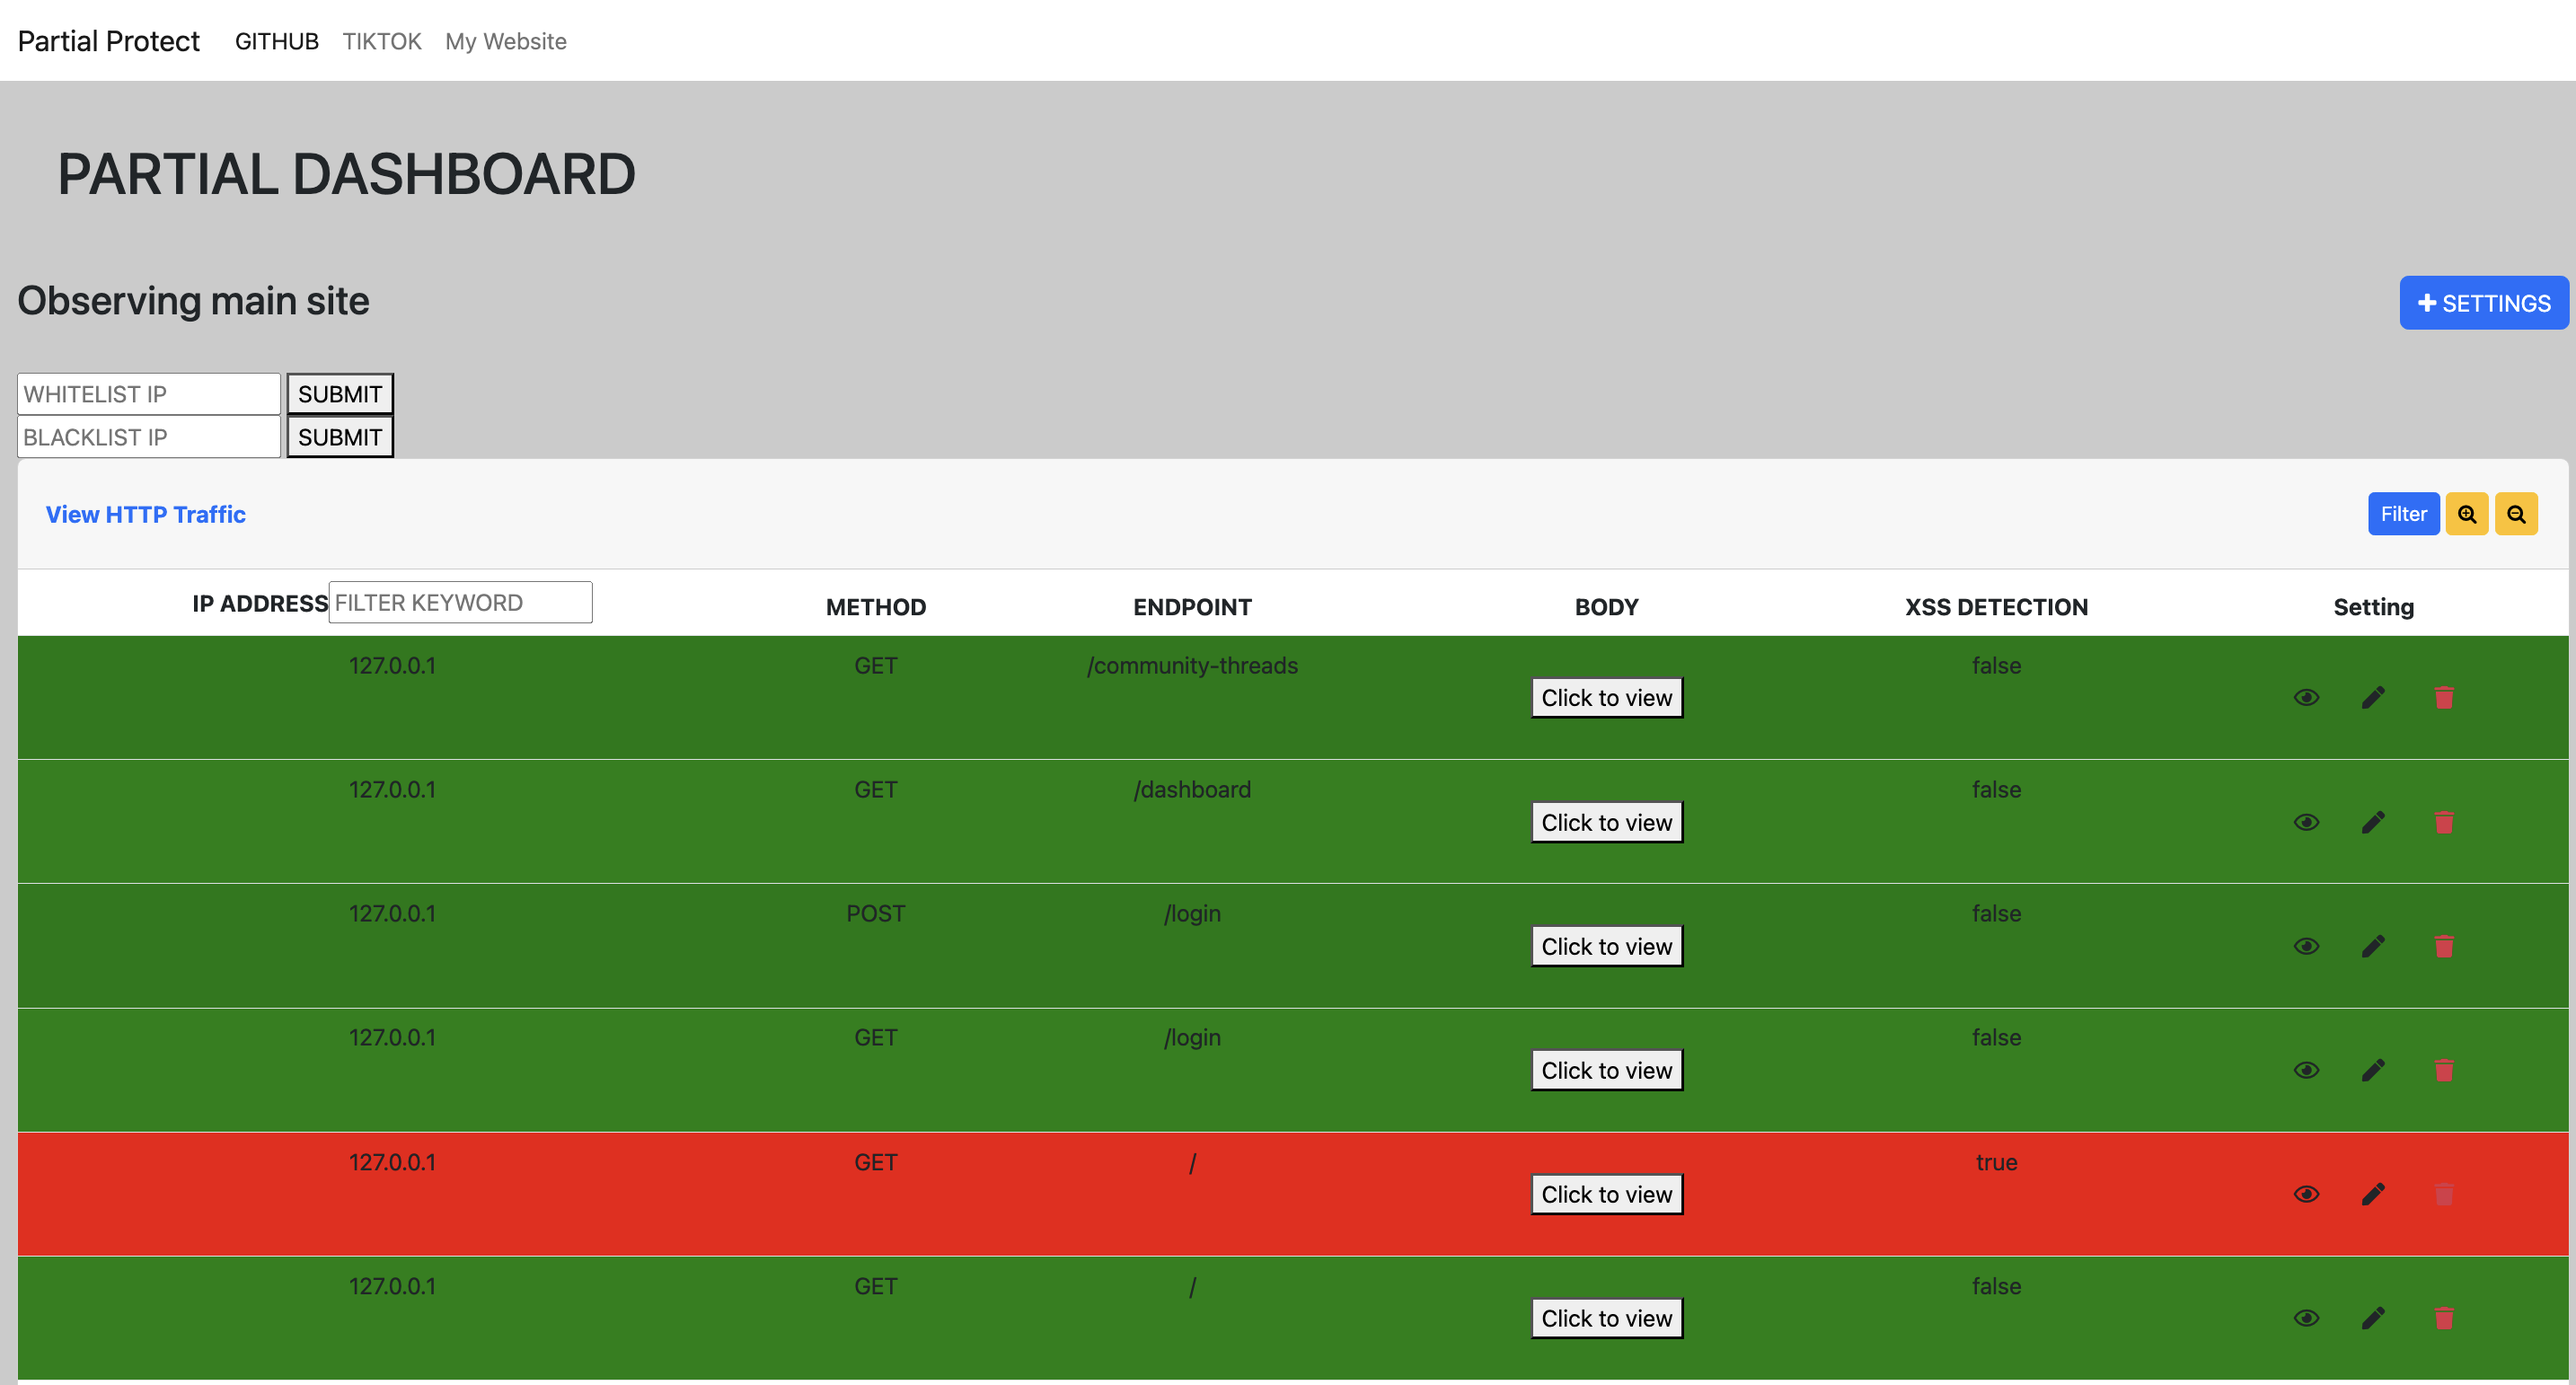
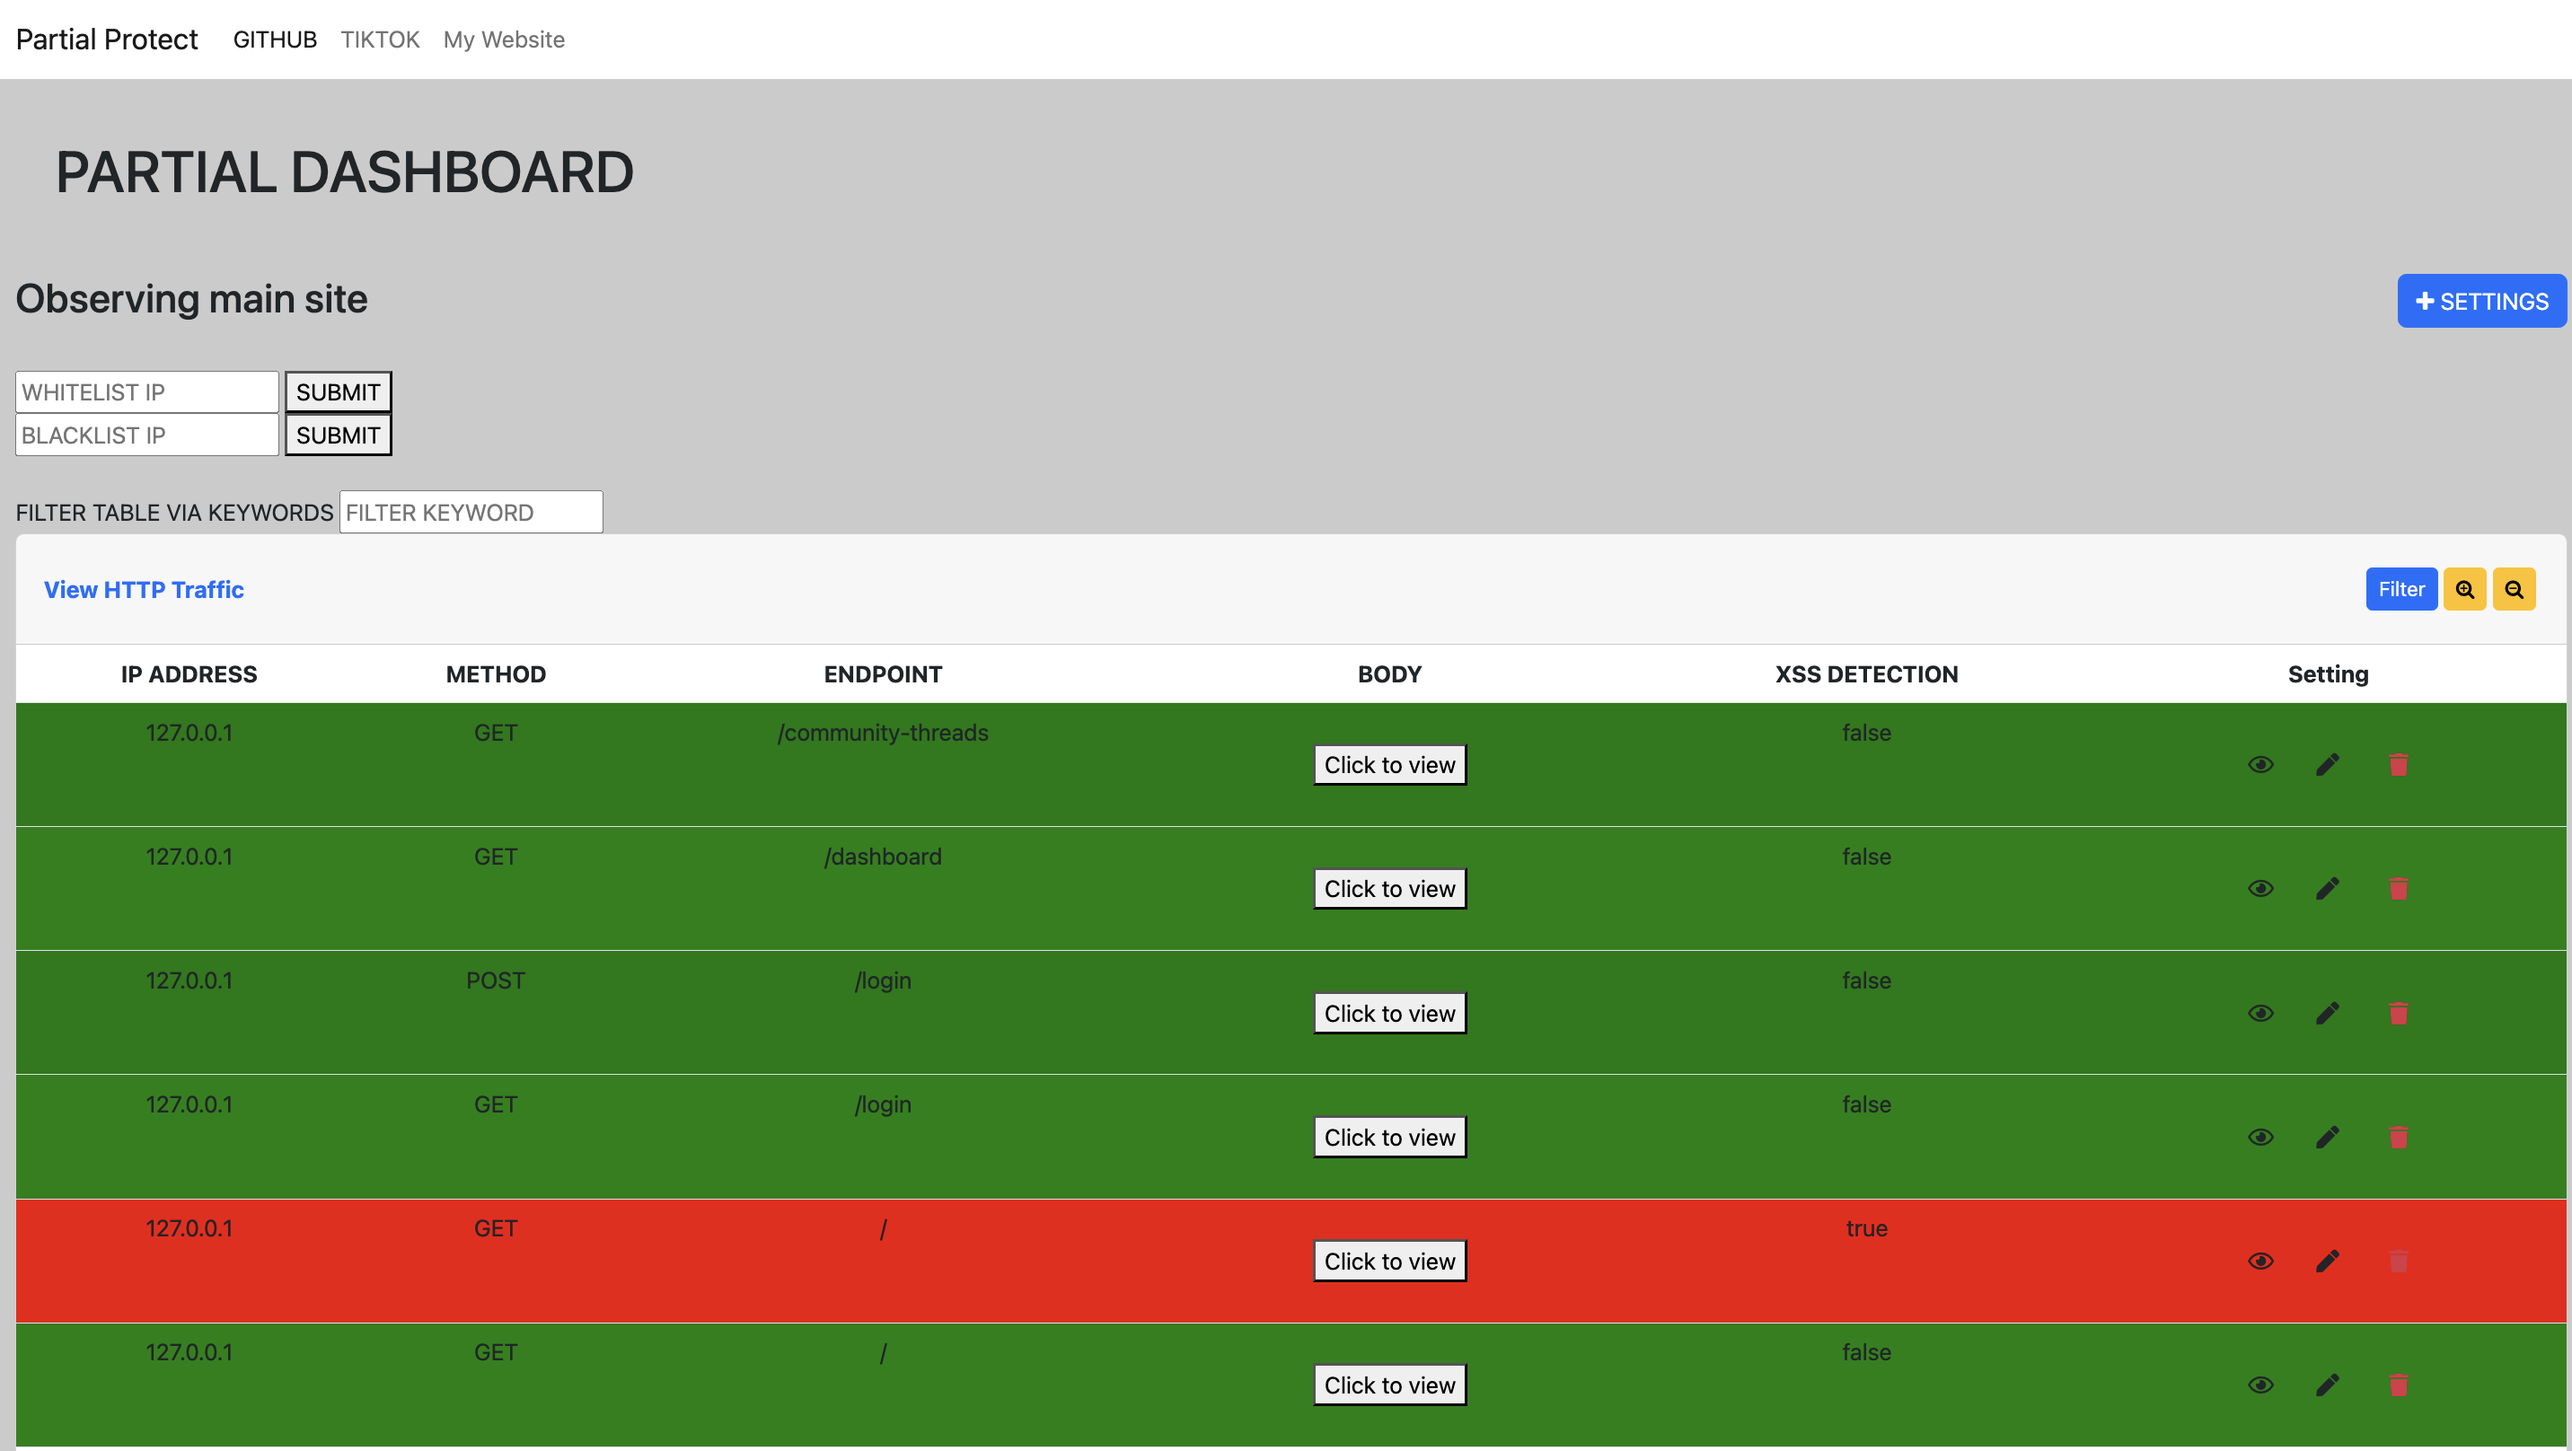
Filter update
Uncommented the filter section. Now you can filter and only see key words

diff --git a/assets/js/socket.js b/assets/js/socket.js
@@ -25,10 +25,10 @@ function renderFilteredTable() {
 
     requests.forEach(req => {
       for (let i = 0; i < req.Method.length; i++) {
-        const match = ip.toLowerCase().includes(query) //||
-          // req.Method[i].toLowerCase().includes(query) ||
-          // req.Url[i].toLowerCase().includes(query) ||
-          // JSON.stringify(req.Header[i]).toLowerCase().includes(query);
+        const match = ip.toLowerCase().includes(query) ||
+          req.Method[i].toLowerCase().includes(query) ||
+          req.Url[i].toLowerCase().includes(query) ||
+          JSON.stringify(req.Header[i]).toLowerCase().includes(query);
 
         const str =  req.Url[i]
         const slashMatches = [...str.matchAll(/\//g)];
